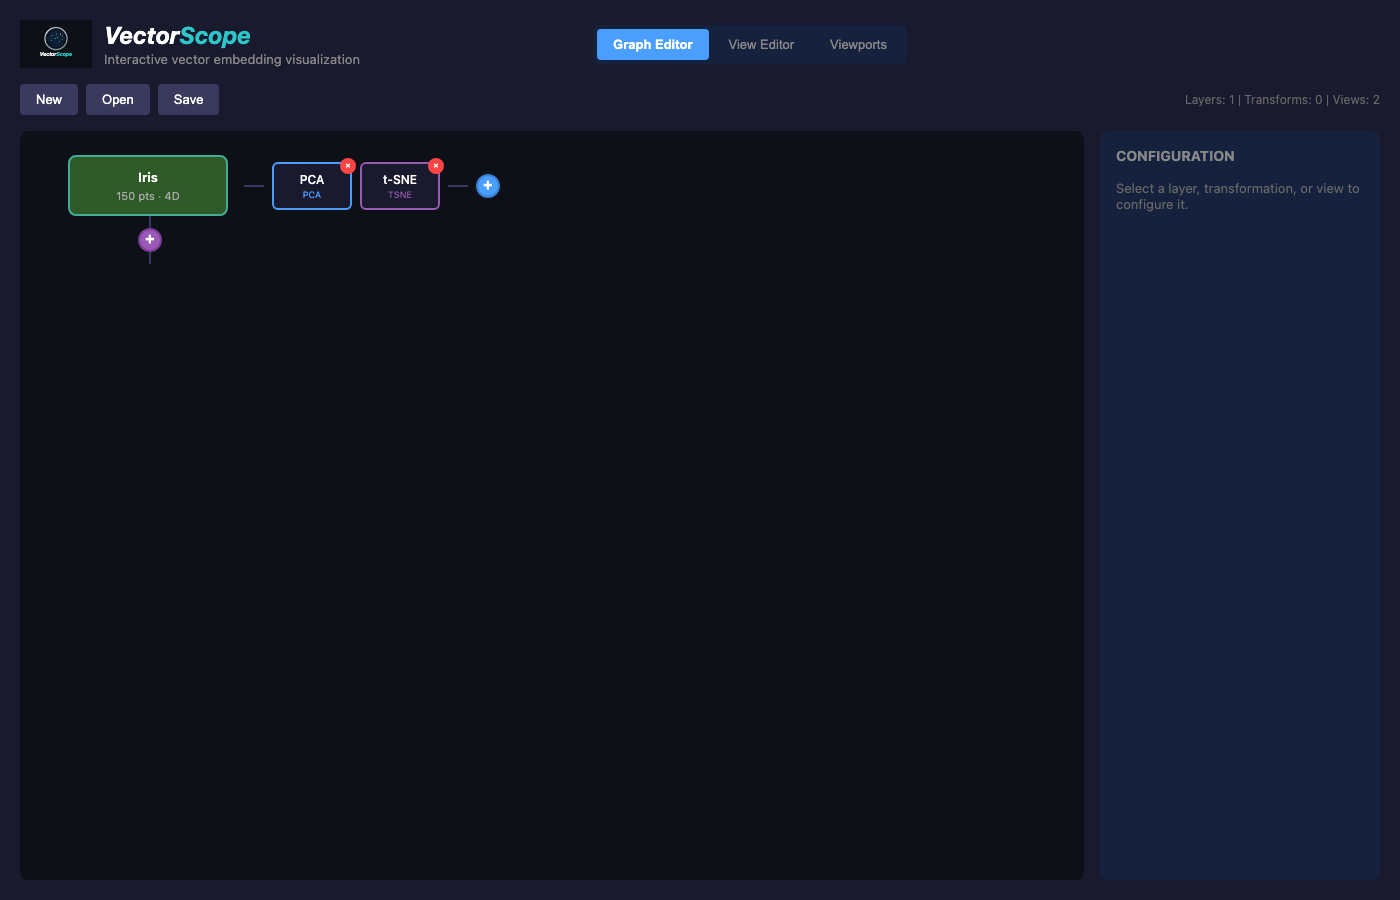
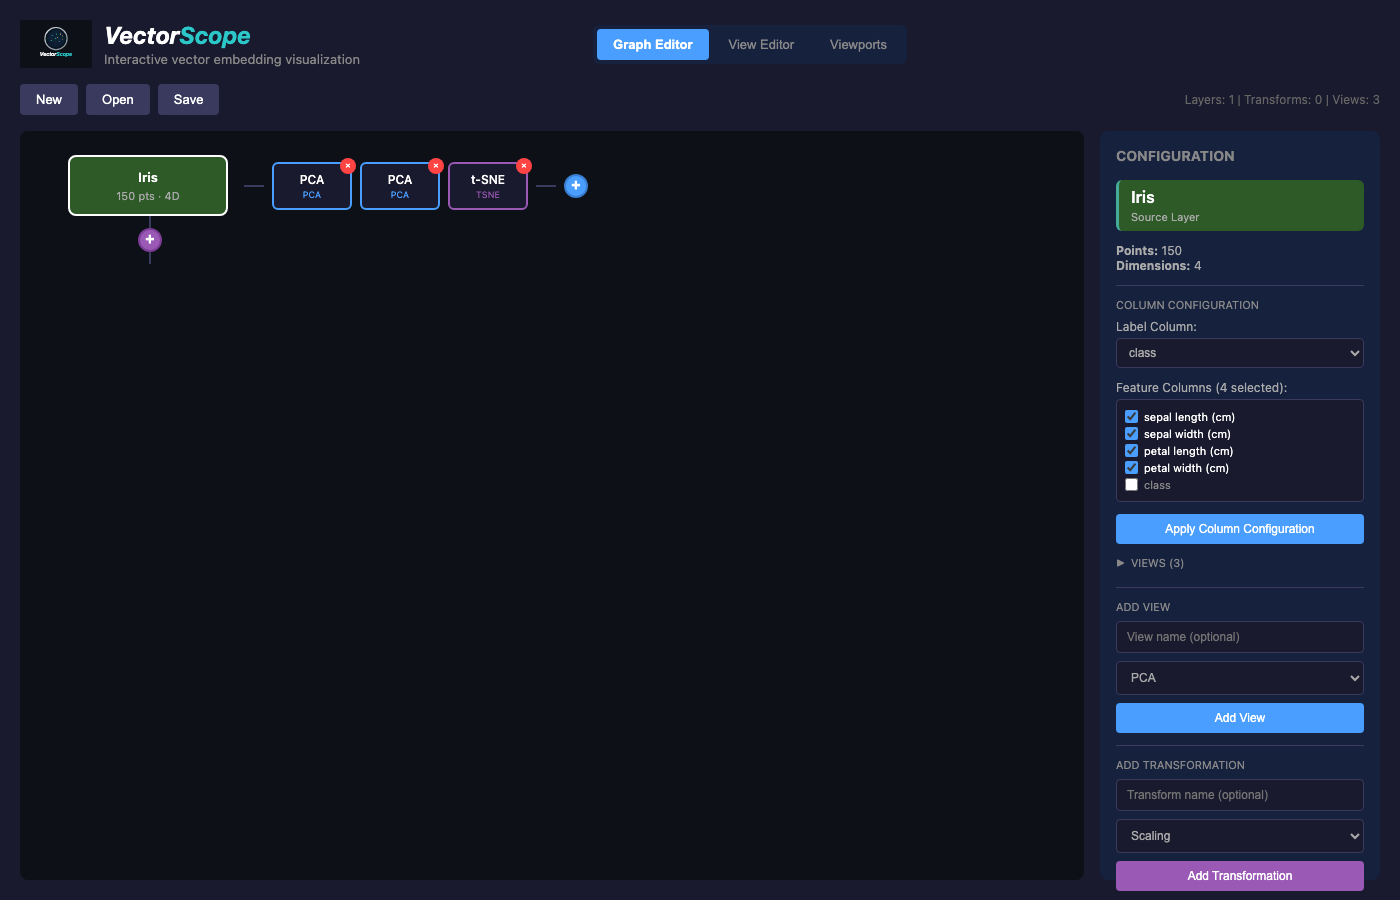
Update screenshots and quickstart documentation
- Re-capture all screenshots with corrected UI flows
- Change "Making a Selection" to "Exploring Multiple Views"
- Show PCA and t-SNE side by side in viewports screenshot
- Update histogram and boxplot screenshots to use Viewports tab buttons
- Fix screenshot script to properly handle modals and view selection

🤖 Generated with [Claude Code](https://claude.com/claude-code)

Changed region(s): [[0.7986, 0.1867, 0.9829, 0.7156], [0.7986, 0.7467, 0.9829, 0.9956], [0.2764, 0.1556, 0.43, 0.2489]]

diff --git a/scripts/capture_screenshots.py b/scripts/capture_screenshots.py
@@ -9,6 +9,15 @@ SCREENSHOTS_DIR = Path(__file__).parent.parent / "docs" / "_static" / "images"
 BASE_URL = "http://localhost:5173"
 
 
+async def close_modal(page):
+    """Close any open modal by clicking outside or pressing Escape."""
+    try:
+        await page.keyboard.press("Escape")
+        await page.wait_for_timeout(300)
+    except:
+        pass
+
+
 async def select_view_in_dropdown(page, view_name_contains):
     """Helper to select a view from the view dropdown by partial name match."""
     selects = await page.query_selector_all("select")
@@ -58,24 +67,34 @@ async def capture_screenshots():
             await page.wait_for_timeout(500)
         except Exception as e:
             print(f"Note: Could not click layer node: {e}")
-            try:
-                await page.click(".react-flow__node >> nth=0", timeout=3000)
-                await page.wait_for_timeout(500)
-            except:
-                pass
 
-        # Add a t-SNE view by clicking the "+" button and selecting t-SNE from modal
+        # Add a PCA view first
         try:
             await page.click("button[title='Add view']", timeout=5000)
             await page.wait_for_timeout(500)
-            await page.click("text=t-SNE >> nth=0", timeout=5000)
+            await page.click("button:has-text('PCA')", timeout=5000)
+            await page.wait_for_timeout(2000)
+            await close_modal(page)
+        except Exception as e:
+            print(f"Note: Could not add PCA view: {e}")
+            await close_modal(page)
+
+        # Add a t-SNE view
+        try:
+            await page.click("text=Iris >> nth=0", timeout=3000)
+            await page.wait_for_timeout(500)
+            await page.click("button[title='Add view']", timeout=5000)
+            await page.wait_for_timeout(500)
+            await page.click("button:has-text('t-SNE')", timeout=5000)
             await page.wait_for_timeout(3000)
+            await close_modal(page)
 
             # Screenshot 3: Graph with t-SNE view added
             await page.screenshot(path=SCREENSHOTS_DIR / "graph_with_view.png")
             print("Captured: graph_with_view.png")
         except Exception as e:
             print(f"Note: Could not add t-SNE view: {e}")
+            await close_modal(page)
 
         # Add a transformation
         try:
@@ -83,34 +102,27 @@ async def capture_screenshots():
             await page.wait_for_timeout(500)
             await page.click("button[title='Add transformation']", timeout=5000)
             await page.wait_for_timeout(500)
-            await page.click("text=Scaling", timeout=5000)
+            await page.click("button:has-text('Scaling')", timeout=5000)
             await page.wait_for_timeout(2000)
+            await close_modal(page)
 
             # Screenshot 4: Graph with transformation added
             await page.screenshot(path=SCREENSHOTS_DIR / "graph_with_transformation.png")
             print("Captured: graph_with_transformation.png")
         except Exception as e:
             print(f"Note: Could not add transformation: {e}")
+            await close_modal(page)
 
         # Switch to View Editor and select the t-SNE view to show scatter plot
         try:
-            await page.click("text=View Editor")
+            await close_modal(page)
+            await page.click("button:has-text('View Editor')", timeout=5000)
             await page.wait_for_timeout(1000)
 
-            # Select a view that shows data (the t-SNE view we just created)
-            # Try to find the view dropdown and select the first actual view
+            # Select t-SNE view
             found = await select_view_in_dropdown(page, "tsne")
             if not found:
                 found = await select_view_in_dropdown(page, "pca")
-            if not found:
-                # Try selecting index 1 from first dropdown that has options
-                selects = await page.query_selector_all("select")
-                for select in selects:
-                    options = await select.query_selector_all("option")
-                    if len(options) > 1:
-                        await select.select_option(index=1)
-                        await page.wait_for_timeout(2000)
-                        break
 
             # Screenshot 5: View editor with scatter plot
             await page.screenshot(path=SCREENSHOTS_DIR / "view_editor.png")
@@ -118,80 +130,60 @@ async def capture_screenshots():
         except Exception as e:
             print(f"Note: Could not switch to view editor: {e}")
 
-        # Switch to Viewports and show t-SNE view
+        # Switch to Viewports and show PCA and t-SNE side by side
         try:
-            await page.click("text=Viewports")
+            await page.click("button:has-text('Viewports')", timeout=5000)
             await page.wait_for_timeout(1000)
 
-            # Add viewport and select a projection
-            await page.click("text=Add Viewport")
+            # Add a second viewport
+            await page.click("button:has-text('Add Viewport')", timeout=5000)
             await page.wait_for_timeout(500)
 
-            # Select projections for viewports
+            # Select PCA for first viewport
             selects = await page.query_selector_all("select")
-            for i, select in enumerate(selects[:2]):
-                options = await select.query_selector_all("option")
-                if len(options) > 1:
-                    await select.select_option(index=min(i + 1, len(options) - 1))
-                    await page.wait_for_timeout(500)
+            if len(selects) >= 1:
+                options = await selects[0].query_selector_all("option")
+                for i, opt in enumerate(options):
+                    text = await opt.text_content()
+                    if "pca" in text.lower():
+                        await selects[0].select_option(index=i)
+                        await page.wait_for_timeout(500)
+                        break
+
+            # Select t-SNE for second viewport
+            selects = await page.query_selector_all("select")
+            if len(selects) >= 2:
+                options = await selects[1].query_selector_all("option")
+                for i, opt in enumerate(options):
+                    text = await opt.text_content()
+                    if "tsne" in text.lower() or "t-sne" in text.lower():
+                        await selects[1].select_option(index=i)
+                        await page.wait_for_timeout(500)
+                        break
 
             await page.wait_for_timeout(2000)
 
-            # Screenshot 6: Viewports
+            # Screenshot 6: Viewports with PCA and t-SNE
             await page.screenshot(path=SCREENSHOTS_DIR / "viewports.png")
             print("Captured: viewports.png")
         except Exception as e:
             print(f"Note: Could not set up viewports: {e}")
 
-        # Add Histogram view and show it in Viewports mode
+        # Screenshot 7: Histograms - click the "Histograms" button in Viewports
         try:
-            await page.click("text=Graph Editor")
-            await page.wait_for_timeout(1000)
-
-            await page.click("text=Iris >> nth=0", timeout=3000)
-            await page.wait_for_timeout(500)
-
-            await page.click("button[title='Add view']", timeout=5000)
-            await page.wait_for_timeout(500)
-            await page.click("text=Histogram", timeout=5000)
+            await page.click("button:has-text('Histograms')", timeout=5000)
             await page.wait_for_timeout(2000)
 
-            # Switch to Viewports and select histogram view
-            await page.click("text=Viewports")
-            await page.wait_for_timeout(1000)
-
-            # Find and select the histogram view in a viewport
-            found = await select_view_in_dropdown(page, "histogram")
-            await page.wait_for_timeout(2000)
-
-            # Screenshot 7: Histogram view in Viewports mode
             await page.screenshot(path=SCREENSHOTS_DIR / "histogram_view.png")
             print("Captured: histogram_view.png")
         except Exception as e:
             print(f"Note: Could not capture histogram view: {e}")
 
-        # Add Box Plot view and show it in Viewports mode
+        # Screenshot 8: Box Plots - click the "Box Plots" button in Viewports
         try:
-            await page.click("text=Graph Editor")
-            await page.wait_for_timeout(1000)
-
-            await page.click("text=Iris >> nth=0", timeout=3000)
-            await page.wait_for_timeout(500)
-
-            await page.click("button[title='Add view']", timeout=5000)
-            await page.wait_for_timeout(500)
-            await page.click("text=Box Plot", timeout=5000)
+            await page.click("button:has-text('Box Plots')", timeout=5000)
             await page.wait_for_timeout(2000)
 
-            # Switch to Viewports and select box plot view
-            await page.click("text=Viewports")
-            await page.wait_for_timeout(1000)
-
-            # Find and select the box plot view in a viewport
-            found = await select_view_in_dropdown(page, "box")
-            await page.wait_for_timeout(2000)
-
-            # Screenshot 8: Box Plot view in Viewports mode
             await page.screenshot(path=SCREENSHOTS_DIR / "boxplot_view.png")
             print("Captured: boxplot_view.png")
         except Exception as e:

diff --git a/docs/quickstart.rst b/docs/quickstart.rst
@@ -154,20 +154,19 @@ You can apply transformations to your data before projecting:
 
 The transformation creates a new derived layer that you can project separately.
 
-Making a Selection
-^^^^^^^^^^^^^^^^^^
+Exploring Multiple Views
+^^^^^^^^^^^^^^^^^^^^^^^^
 
-Switch to the **Viewports** tab to see multiple views side by side:
+Switch to the **Viewports** tab to see multiple projections side by side:
 
 .. figure:: _static/images/viewports.png
    :alt: Multiple viewports
    :width: 100%
 
-   Viewports mode showing multiple projections simultaneously.
+   Viewports mode showing PCA (left) and t-SNE (right) projections of the same data.
 
-1. In any viewport, drag to select a group of points (box selection)
-2. Switch between views - your selection is synchronized
-3. Click "Clear Selection" to deselect all points
+This lets you compare how the same points appear in different projections.
+PCA shows the directions of maximum variance, while t-SNE emphasizes cluster structure.
 
 Exploring Feature Distributions
 ^^^^^^^^^^^^^^^^^^^^^^^^^^^^^^^
